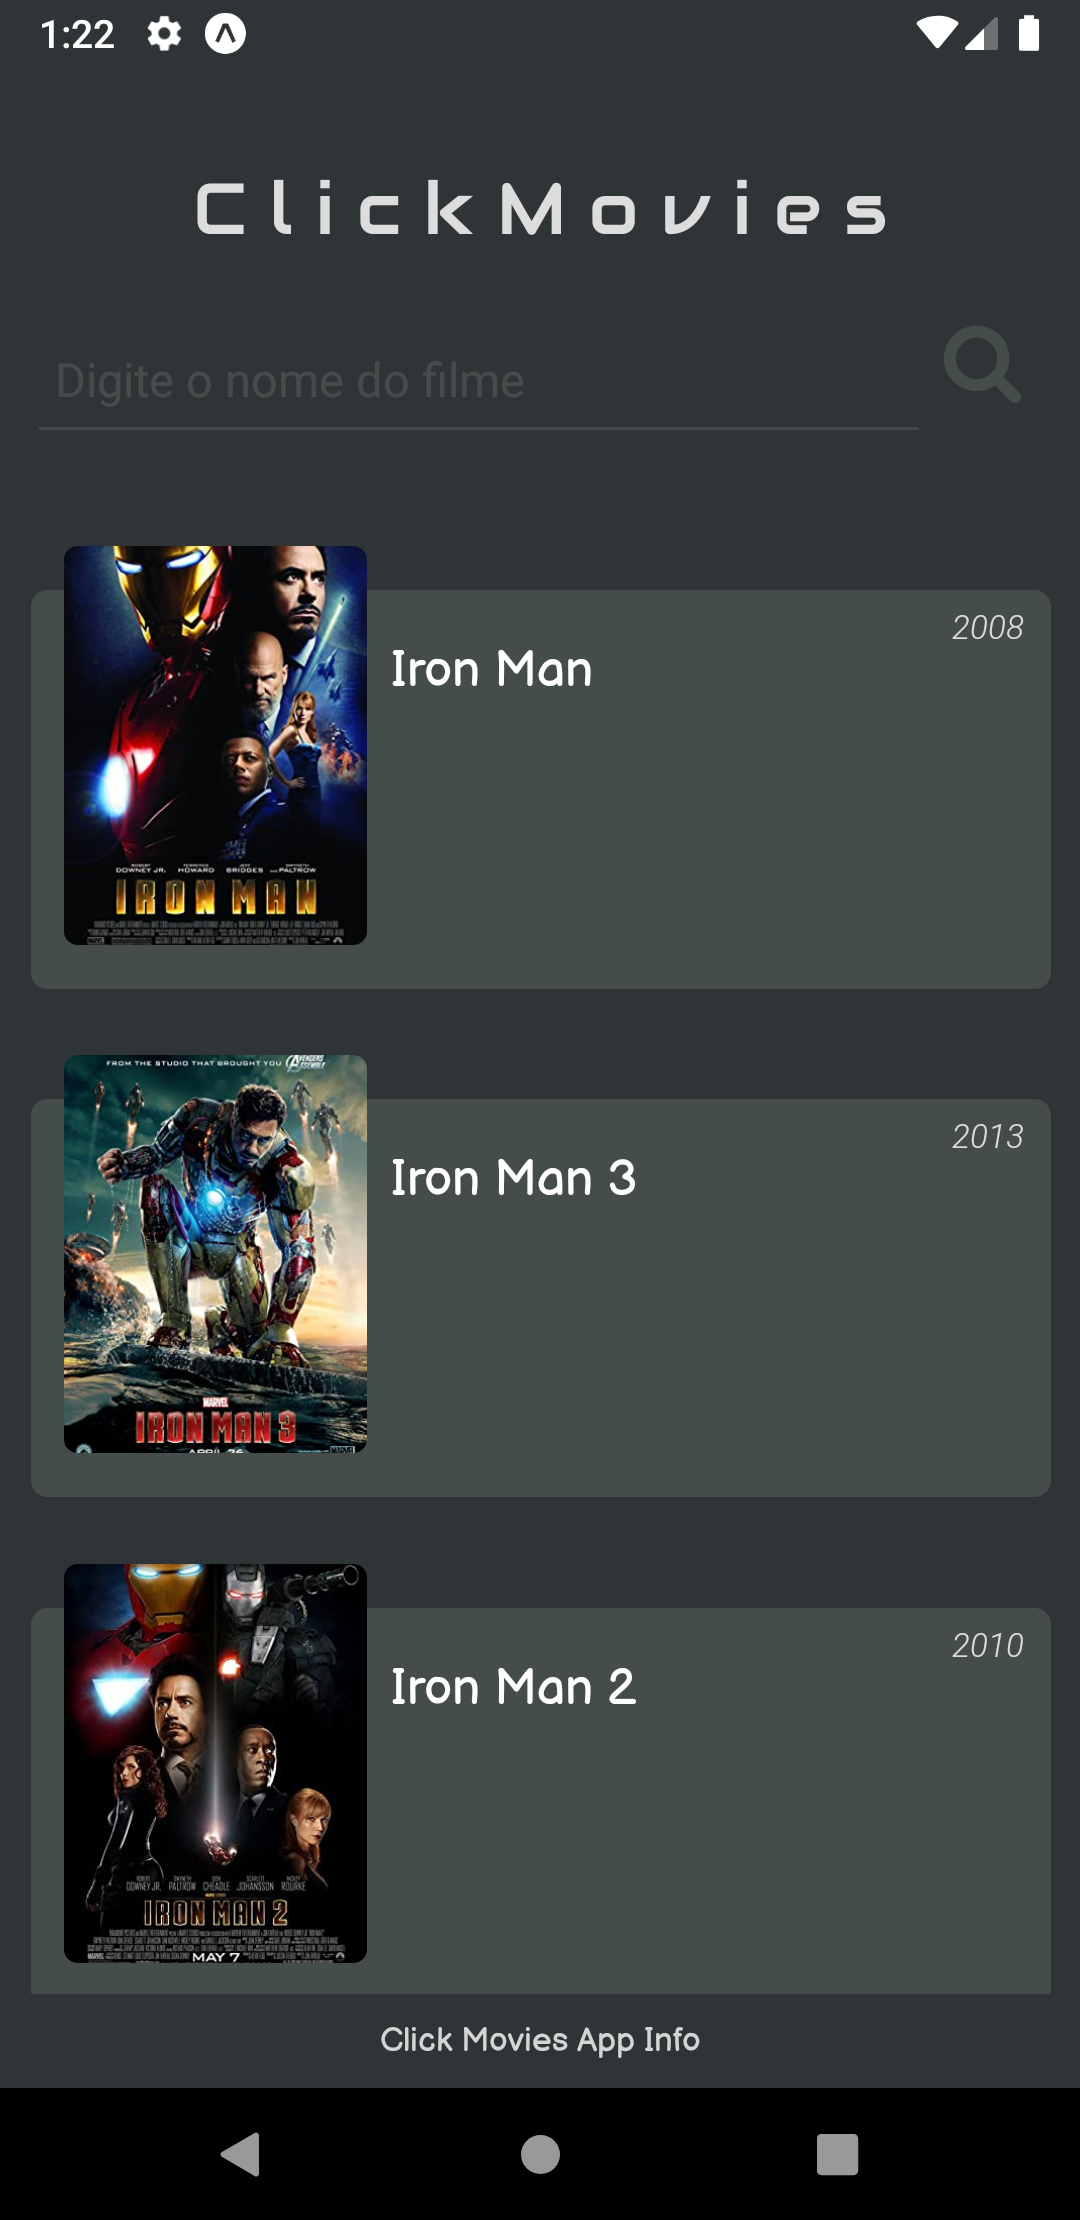
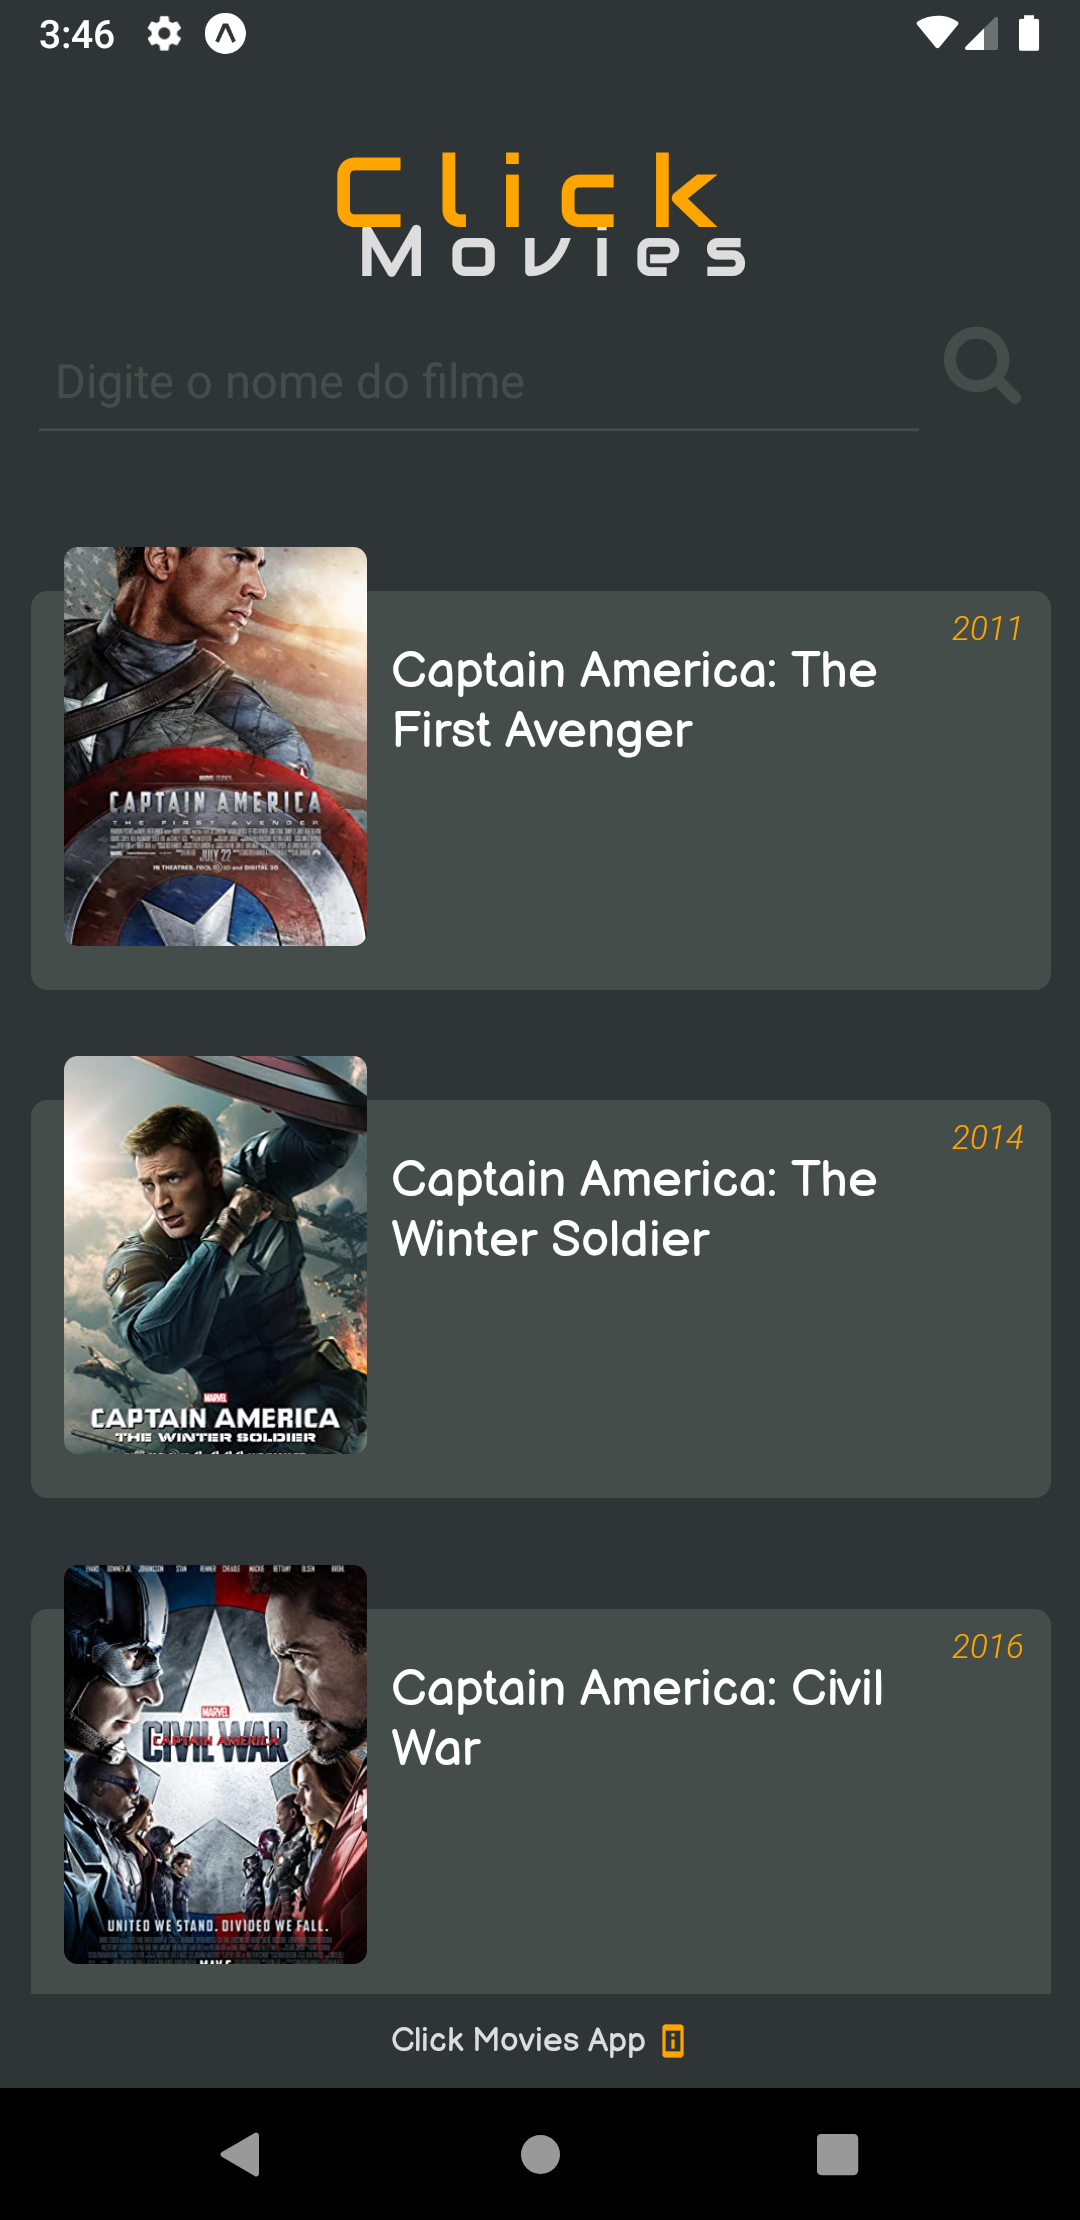
Click Movies App Styled

diff --git a/src/pages/Info/index.tsx b/src/pages/Info/index.tsx
@@ -67,10 +67,10 @@ const Info = () => {
         <Ionicons
           name="ios-arrow-back"
           size={35}
-          style={{ marginRight: 50, bottom: 5 }}
-          color="#ddd"
+          style={{ marginRight: 70, bottom: 5 }}
+          color="orange"
         />
-        <TitleApp> Info Click Movies App </TitleApp>
+        <TitleApp> Click Movies App </TitleApp>
       </HeaderView>
       <Capa>
         <TitleInfo>Resumo</TitleInfo>
@@ -87,7 +87,7 @@ const Info = () => {
               name="imdb"
               size={18}
               style={{ marginRight: 5, marginLeft: 5, top: 2 }}
-              color="#ddd"
+              color="orange"
             />
             <IconsText>www.omdbapi.com </IconsText>
           </IconsView>
@@ -99,7 +99,7 @@ const Info = () => {
               name="linkedin-square"
               size={18}
               style={{ marginRight: 5, marginLeft: 5, top: 2 }}
-              color="#ddd"
+              color="orange"
             />
             <IconsText>Heluan Santos</IconsText>
           </IconsView>
@@ -110,7 +110,7 @@ const Info = () => {
               name="github"
               size={18}
               style={{ marginRight: 5, marginLeft: 5, top: 2 }}
-              color="#ddd"
+              color="orange"
             />
             <IconsText>heluansantos.github.io</IconsText>
           </IconsView>
@@ -122,7 +122,7 @@ const Info = () => {
               name="github"
               size={18}
               style={{ marginRight: 5, marginLeft: 5, top: 2 }}
-              color="#ddd"
+              color="orange"
             />
             <IconsText>github.com/heluansantos/Click-Movies</IconsText>
           </IconsView>

diff --git a/src/pages/Home/index.tsx b/src/pages/Home/index.tsx
@@ -1,6 +1,6 @@
 import React, { useState, useEffect } from "react";
 import { useNavigation } from "@react-navigation/native";
-import { FontAwesome } from "@expo/vector-icons";
+import { FontAwesome, MaterialIcons } from "@expo/vector-icons";
 import axios from "axios";
 import {
   Container,
@@ -10,12 +10,14 @@ import {
   ButtonInput,
   ViewInputText,
   TitleMovie,
+  TitleSubApp,
   DescriptionMovie,
   ButtonCreditos,
   ButtonTextCreditos,
   TitleError,
   CapaScrollView,
   CapaImage,
+  ViewIconInfo,
 } from "./styles";
 
 interface Post {
@@ -26,7 +28,7 @@ interface Post {
 }
 
 const Home = () => {
-  const [searchText, setSearchText] = useState("man");
+  const [searchText, setSearchText] = useState("america");
   const [movie, setMovie] = useState<Post[]>([]);
   const navigation = useNavigation();
   const [value, onChangeText] = React.useState("");
@@ -62,7 +64,8 @@ const Home = () => {
 
   return (
     <Container>
-      <TitleApp>C l i c k M o v i e s</TitleApp>
+      <TitleSubApp> M o v i e s</TitleSubApp>
+      <TitleApp>C l i c k </TitleApp>
       <ViewInput>
         <ViewInputText
           maxLength={30}
@@ -93,7 +96,14 @@ const Home = () => {
         )}
       </CapaScrollView>
       <ButtonCreditos onPress={InfoClickMoviesApp}>
-        <ButtonTextCreditos>Click Movies App Info</ButtonTextCreditos>
+        <ButtonTextCreditos>Click Movies App </ButtonTextCreditos>
+        <ViewIconInfo>
+          <MaterialIcons
+            name="perm-device-information"
+            size={13}
+            color="orange"
+          />
+        </ViewIconInfo>
       </ButtonCreditos>
     </Container>
   );

diff --git a/src/pages/Home/styles.ts b/src/pages/Home/styles.ts
@@ -25,16 +25,24 @@ export const CapaImage = styled.Image`
   left: 12px;
 `;
 export const TitleApp = styled.Text`
+  font-size: 36px;
+  margin: 23px 0px 18px;
+  color: orange;
+  align-self: center;
+  font-family: "Audiowide_400Regular";
+`;
+export const TitleSubApp = styled.Text`
   font-size: 26px;
-  margin: 35px 0px 18px;
+  margin: 50px 0px 18px;
   color: #ddd;
   align-self: center;
   font-family: "Audiowide_400Regular";
+  position: absolute;
 `;
 export const TitleError = styled.Text`
   font-size: 20px;
   margin: 64px 5px 24px;
-  color: #ddd;
+  color: orange;
   align-self: center;
 `;
 
@@ -53,7 +61,7 @@ export const TitleMovie = styled.Text`
 export const DescriptionMovie = styled.Text`
   font-size: 12px;
   margin: 5px 13px 5px;
-  color: #ddd;
+  color: orange;
   font-family: "Roboto_300Light_Italic";
 `;
 
@@ -80,12 +88,18 @@ export const ButtonInput = styled.TouchableOpacity`
   margin: 5px;
 `;
 
-export const ButtonCreditos = styled.TouchableOpacity``;
+export const ButtonCreditos = styled.TouchableOpacity`
+  flex-direction: row;
+  justify-content: center;
+  padding: 3px;
+  top: 4px;
+`;
+export const ViewIconInfo = styled.View`
+  top: 3px;
+`;
 export const ButtonTextCreditos = styled.Text`
   font-size: 12px;
   text-align: center;
-  padding: 3px;
-  top: 4px;
-  color: #d5d5d5;
+  color: #ddd;
   font-family: "BalsamiqSans_400Regular";
 `;

diff --git a/src/pages/Detail/index.tsx b/src/pages/Detail/index.tsx
@@ -1,6 +1,6 @@
 import React, { useState, useEffect } from "react";
 import { useNavigation, useRoute } from "@react-navigation/native";
-import { Ionicons } from "@expo/vector-icons";
+import { Ionicons, MaterialIcons } from "@expo/vector-icons";
 import axios from "axios";
 import {
   Container,
@@ -15,6 +15,7 @@ import {
   ImageView,
   ButtonCreditos,
   ButtonTextCreditos,
+  ViewIconInfo,
 } from "./styles";
 
 interface Parametros {
@@ -69,7 +70,7 @@ const Detail = () => {
             <Ionicons
               name="ios-arrow-back"
               size={35}
-              color="#fff"
+              color="orange"
               style={{ left: 8 }}
             />
           </HeaderView>
@@ -95,7 +96,14 @@ const Detail = () => {
             </DescriptionMovieRating>
           </CapaInfo>
           <ButtonCreditos onPress={InfoClickMoviesApp}>
-            <ButtonTextCreditos>Click Movies App Info</ButtonTextCreditos>
+            <ButtonTextCreditos>Click Movies App</ButtonTextCreditos>
+            <ViewIconInfo>
+              <MaterialIcons
+                name="perm-device-information"
+                size={13}
+                color="orange"
+              />
+            </ViewIconInfo>
           </ButtonCreditos>
         </Capa>
       ) : (

diff --git a/src/pages/Detail/styles.ts b/src/pages/Detail/styles.ts
@@ -28,7 +28,7 @@ export const TitleMovie = styled.Text`
   font-size: 20px;
   margin: 10px 15px 10px;
   align-self: center;
-  color: #fff;
+  color: orange;
   font-family: "BalsamiqSans_400Regular";
 `;
 export const DescriptionMovie = styled.Text`
@@ -41,7 +41,7 @@ export const DescriptionMovie = styled.Text`
 export const DescriptionMovieRating = styled.Text`
   font-size: 25px;
   margin: 2px 10px 2px;
-  color: #d2691e;
+  color: orange;
   padding: 5px;
   font-family: "BalsamiqSans_400Regular";
 `;
@@ -59,7 +59,7 @@ export const HeaderView = styled.TouchableOpacity`
   background-color: rgb(47, 52, 55);
   padding: 2px;
   border-radius: 20px;
-  opacity: 0.6;
+  opacity: 0.9;
   width: 40px;
   margin-top: 10px;
 `;
@@ -71,11 +71,16 @@ export const TitleError = styled.Text`
 `;
 export const ButtonCreditos = styled.TouchableOpacity`
   background-color: #454d4b;
+  flex-direction: row;
+  justify-content: center;
 `;
 export const ButtonTextCreditos = styled.Text`
   font-size: 12px;
   text-align: center;
   padding: 3px;
-  color: #d5d5d5;
+  color: #ddd;
   font-family: "BalsamiqSans_400Regular";
+`;
+export const ViewIconInfo = styled.View`
+  top: 5px;
 `;

diff --git a/src/pages/Info/styles.ts b/src/pages/Info/styles.ts
@@ -41,7 +41,7 @@ export const DescriptionInfo = styled.Text`
 `;
 export const HeaderView = styled.TouchableOpacity`
   flex-direction: row;
-  margin: 25px 0px 24px;
+  margin: 25px 0px 20px;
   width: 330px;
 `;
 export const ClickOpen = styled.TouchableOpacity``;
